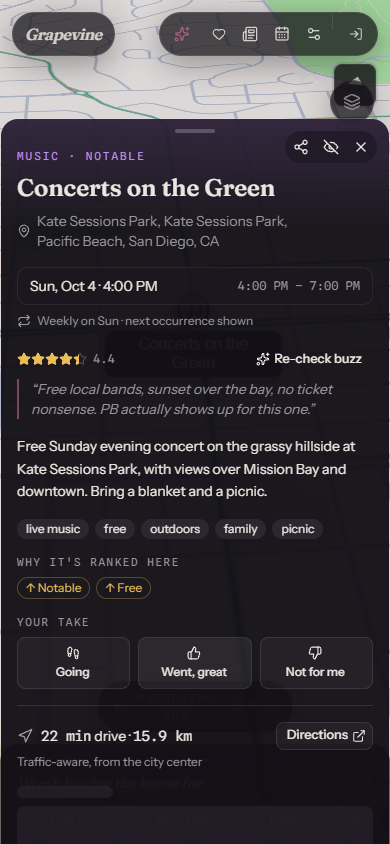
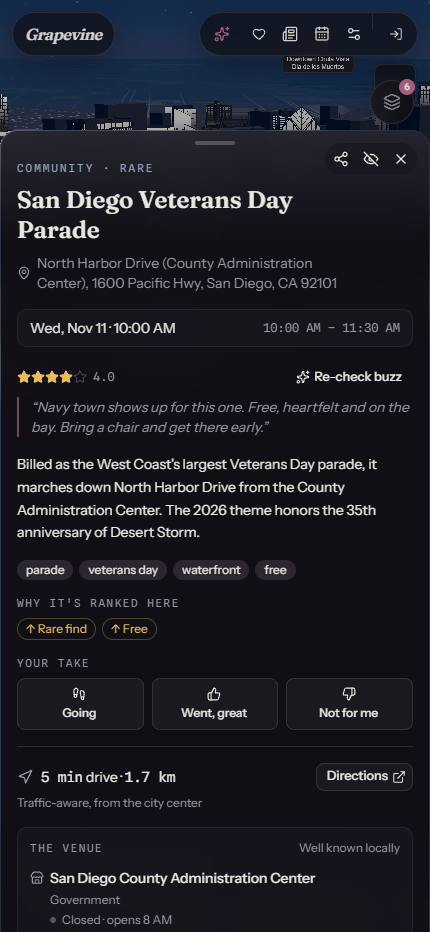
docs: showcase AI engineering and refresh waterfront screenshots

Changed region(s): [[0.0, 0.0, 1.0, 1.0], [0.8, 0.3081, 0.9231, 0.3697]]

diff --git a/README.md b/README.md
@@ -1,20 +1,69 @@
 # Grapevine
 
-**Local events worth going to, on a 3D map.**
+**Local events worth going to, on a 3D map. Built with a validated local AI agent.**
 
 [![CI](https://github.com/21sean/GrapevineOS/actions/workflows/ci.yml/badge.svg)](https://github.com/21sean/GrapevineOS/actions/workflows/ci.yml)
 [![Release](https://img.shields.io/github/v/release/21sean/GrapevineOS)](https://github.com/21sean/GrapevineOS/releases/latest)
 [![License: Apache-2.0](https://img.shields.io/badge/license-Apache--2.0-0b3b2e)](LICENSE)
 
-[Screenshots](#screenshots) · [Quick start](#quick-start) · [Diagrams](#how-it-works) · [Documentation](#documentation) · [Releases](https://github.com/21sean/GrapevineOS/releases)
+[AI/ML checklist](#aiml-engineering-checklist) · [Screenshots](#screenshots) · [Quick start](#quick-start) · [Architecture](#how-it-works) · [Documentation](#documentation)
 
 Grapevine turns local newsletters and verified web discoveries into a map of
 San Diego events. Browse by date, category, and drive time, learn what is on
 nearby, or ask the concierge to help plan your day.
 
-![Grapevine showing downtown San Diego high rises in 3D, with a concert event list](docs/images/downtown-san-diego-3d.png)
+The engineering focus is the boundary between model output and application behavior:
+local inference, strict response contracts, evidence checks, bounded tool use,
+and repeatable evaluations that run before changes merge.
 
-_Downtown San Diego, zoomed in to show the high rises. Captured from the running app with 3D buildings enabled._
+![Grapevine in dark mode, looking across the Star of India and the Embarcadero toward San Diego's 3D skyline](docs/images/downtown-san-diego-3d.png)
+
+_San Diego's waterfront in dark mode, with 3D buildings and the Star of India in view.
+Extra map labels, walking paths, transit, and traffic are off. Real application capture._
+
+**Stack:** React / TypeScript / Mapbox · Node / LangGraph · Python / Pydantic /
+Instructor · Ollama · Supabase · DeepEval / Ragas / OpenTelemetry.
+
+## AI/ML engineering checklist
+
+Each checkmark means the capability is implemented in this repository. The evidence
+column links to the code, tests, or workflow that a reviewer can inspect.
+
+| Status | Capability                                    | Implementation and evidence                                                                                                                                                                                                                                                  |
+| ------ | --------------------------------------------- | ---------------------------------------------------------------------------------------------------------------------------------------------------------------------------------------------------------------------------------------------------------------------------- |
+| ✓      | Schema-gated responses                        | Ollama generates against JSON Schema; strict Pydantic and Instructor validation precedes application use, with generated Zod checks at the Node boundary. [Contracts](llm/grapevine_llm/contracts.py) · [Gateway](server/src/llm/gateway.ts)                                 |
+| ✓      | Bounded repair and typed failures             | Three attempts and one 120-second deadline by default; invalid or exhausted output returns a typed failure without partial results. [Generation boundary](llm/grapevine_llm/client.py) · [Tests](llm/tests/)                                                                 |
+| ✓      | Business-rule and evidence validation         | Validates dates, coordinates, known event IDs, supplied citation IDs, and verification excerpts. Answers can explicitly report insufficient evidence. [Validators](llm/grapevine_llm/contracts.py)                                                                           |
+| ✓      | Agent orchestration and tool contracts        | LangGraph routes input checks, recall, model calls, tools, content checks, and finalization. Tool names and arguments are validated against the allowed set. [Graph](server/src/agent/graph.ts) · [Tool registry](server/src/agent/contracts.ts)                             |
+| ✓      | Human confirmation for proposed actions       | Calendar, watch, and interest proposals have confirmation flows; applying an interest change requires `confirmed: true`. [Action contracts](server/src/agent/contracts.ts)                                                                                                   |
+| ✓      | Retrieval-grounded answers                    | Upcoming event context and tool results supply evidence to the agent; supported answers must cite supplied IDs. [Context](server/src/agent/context.ts) · [Agent boundary](server/src/agent/graph.ts)                                                                         |
+| ✓      | Durable conversation memory                   | Thread checkpoints and bounded running summaries preserve context across turns. [Checkpointer](server/src/checkpointer.ts) · [Recall node](server/src/agent/graph.ts)                                                                                                        |
+| ✓      | Prompt and response regression evaluation     | 30 synthetic golden cases cover normal, edge, adversarial, and repair behavior; 15 also run against the pinned local model. [Dataset](llm/evals/golden.jsonl) · [Harness](llm/grapevine_llm/evals.py)                                                                        |
+| ✓      | Local LLM-as-judge evaluation                 | DeepEval scores explicit rubrics after deterministic checks; agent cases add groundedness and relevance criteria. [Quality runner](server/scripts/llm-quality.ts)                                                                                                            |
+| ✓      | Retrieval precision and recall                | Ragas ID-based metrics score versioned retrieval snapshots with explicit empty-set behavior. [Metrics](llm/grapevine_llm/retrieval_metrics.py)                                                                                                                               |
+| ✓      | Reproducible model evaluations                | Runtime and model digests, seed, dependency locks, dataset hashes, and source fingerprints accompany quality artifacts. [Model pins](llm/evals/models.json) · [Provenance](llm/grapevine_llm/provenance.py)                                                                  |
+| ✓      | CI quality and regression gates               | Requires complete cases, first-pass schema success ≥95%, required judge scores ≥0.75, and no per-case regression against the checked-in and PR-base baselines. [Gates](llm/grapevine_llm/checks.py) · [CI](.github/workflows/llm-quality.yml)                                |
+| ✓      | Prompt-injection defenses and red-team suites | Local input/content classification, an output persona filter, adversarial fixtures, and a separate red-team suite. Classifier failure behavior is documented below. [Guardrails](server/src/agent/guardrails.ts) · [Red team](server/src/evals/suites/guardrails-redteam.ts) |
+| ✓      | Local inference and offline evaluation        | Loopback-only model endpoints, network-denial guards, local datasets/judges, and disabled evaluator uploads. [Offline guide](llm/README.md#offline-operation-tracing-and-ci) · [Network tests](llm/tests/)                                                                   |
+| ✓      | Observability and feedback into evaluations   | Local OpenTelemetry traces record attempts, failures, model time, validation time, and repair time. A sampled review queue supports reviewed promotion into golden cases. [Telemetry](llm/grapevine_llm/telemetry.py) · [Maintenance](llm/grapevine_llm/maintenance.py)      |
+| ✓      | Personalized ranking                          | Event reactions update tag-affinity weights shared by the UI and server ranking surfaces. This is a deterministic scoring system. [Affinity logic](shared/affinity.ts)                                                                                                       |
+
+### What the checks establish
+
+- **Schema validity and factual correctness are separate.** Citation IDs and excerpt
+  checks constrain outputs; they do not prove every claim is true. Complete agent
+  answers validate before display, trading token-by-token rendering for a strict boundary.
+- **The evaluation set is a regression suite, not a general accuracy benchmark.**
+  Retrieval metrics use stored snapshots, not the live database retriever. The
+  starter judge uses the same model as generation; [human calibration](llm/calibration.md)
+  is documented but not yet recorded.
+- **Offline scope is inference and evaluation.** The live product still uses
+  Supabase, Mapbox, and optional web integrations. The prompt-injection classifier
+  can run in blocking, observe, or off mode and fails open if unavailable; the
+  structured-output boundary fails closed.
+
+See the [quality guide](llm/README.md) for reproducing the gates and the
+[README review](docs/readme-review.md) for the hiring-manager audit and remaining evidence gaps.
 
 ## Explore the city
 
@@ -34,15 +83,17 @@ push reminders, and tracing.
 
 ## Screenshots
 
-Real UI captures featuring community concerts. The phone layout keeps the map
-visible while you browse, then opens a scrollable sheet for an event's details.
+Desktop and phone captures use the same dark waterfront view, with 3D buildings
+enabled and optional map clutter hidden. The phone layout keeps the skyline
+visible above the event list and detail sheet.
 
 <p align="center">
-  <img src="docs/images/mobile-event-list.png" width="320" alt="Mobile event list showing free community concerts with a downtown San Diego 3D map">
-  <img src="docs/images/mobile-event-details.png" width="320" alt="Concerts on the Green event details with rating, tags, reactions, and driving directions">
+  <img src="docs/images/mobile-event-list.png" width="320" alt="Mobile Grapevine event list below San Diego's illuminated 3D waterfront skyline">
+  <img src="docs/images/mobile-event-details.png" width="320" alt="Mobile event detail sheet with the dark San Diego waterfront map above it">
 </p>
 
-_Browse community concerts, then open an event for ratings, reactions, and directions._
+_Browse events, then open the details. Capture settings and camera positions are
+recorded in the [screenshot guide](docs/screenshots.md)._
 
 ## Quick start
 
@@ -106,6 +157,13 @@ Press **Ctrl K** on Windows and Linux, or **⌘K** on macOS, to open Ask Grapevi
 
 ## How it works
 
+Newsletter or discovery text → schema-gated extraction and verification → stored
+events → map and ranking. The concierge reads event context and tool results,
+validates its next action or complete answer, and exposes proposals through the UI.
+
+<details>
+<summary>Explore the ingestion, agent, guardrail, and ranking diagrams</summary>
+
 ### From newsletters to the map
 
 Newsletters become structured events, enriched with local buzz ratings and
@@ -138,7 +196,7 @@ for you to confirm.
 ### Guardrails
 
 Input and fetched content pass through classifier checks. A separate output
-filter runs on the streamed response. The
+filter checks the validated answer before display. The
 [technical guide](docs/product-guide.md#guardrails) explains the checks and
 their failure behavior.
 
@@ -154,6 +212,8 @@ same ranking signals feed the map, event list, weekly view, and notifications.
 <p align="center">
   <img src="docs/images/interest-learning.png" width="900" alt="Interest learning feedback loop from preferences and event reactions to tag affinity, personal scores, and ranked event surfaces">
 </p>
+
+</details>
 
 See the [product guide](docs/product-guide.md) and
 [agent architecture](docs/agent-architecture.md) for the complete walkthrough.
@@ -189,14 +249,16 @@ CI also requires schema/version checks, 30 deterministic golden cases, and
 [structured inference guide](llm/README.md) for adding schemas, eval cases,
 and reviewed baselines. Existing offline and red-team suites remain available.
 
-| Directory               | Purpose                                                          |
-| ----------------------- | ---------------------------------------------------------------- |
-| `web/`                  | React UI, Mapbox rendering, filters, event details, and chat     |
-| `server/`               | Express API, LangGraph agent, integrations, MCP, and evaluations |
-| `shared/`               | Domain types, recurrence, ranking signals, and time calculations |
-| `workers/email-ingest/` | Cloudflare newsletter intake and delivery recovery               |
-| `supabase/`             | Database migrations                                              |
-| `docs/`                 | Setup, architecture, product guide, and UI screenshots           |
+| Directory               | Purpose                                                                    |
+| ----------------------- | -------------------------------------------------------------------------- |
+| `web/`                  | React UI, Mapbox rendering, filters, event details, and chat               |
+| `server/`               | Express API, LangGraph agent, integrations, MCP, and evaluations           |
+| `shared/`               | Domain types, recurrence, ranking signals, and time calculations           |
+| `llm/`                  | Python contracts, local inference, golden cases, judges, and quality gates |
+| `contracts/llm/`        | Immutable versioned JSON Schemas for cross-language validation             |
+| `workers/email-ingest/` | Cloudflare newsletter intake and delivery recovery                         |
+| `supabase/`             | Database migrations                                                        |
+| `docs/`                 | Setup, architecture, product guide, and UI screenshots                     |
 
 Licensed under [Apache-2.0](LICENSE). See the
 [third-party notices](docs/THIRD_PARTY_NOTICES.md) and

diff --git a/docs/readme-review.md b/docs/readme-review.md
@@ -1,0 +1,34 @@
+# README hiring-manager review
+
+Reviewed against the v0.7.0 implementation on 2026-10-28. This is an editorial
+and source-evidence audit, not an independent model benchmark or security audit.
+
+The README should let a reviewer understand the product, identify the engineering
+work, and inspect the evidence without reading the entire repository first.
+
+| Review question                                 | Finding in the previous README                                                                                   | Resolution                                                                                                                                                                 |
+| ----------------------------------------------- | ---------------------------------------------------------------------------------------------------------------- | -------------------------------------------------------------------------------------------------------------------------------------------------------------------------- |
+| What does the application do?                   | The local-event map was clear; the AI engineering focus was buried.                                              | Added a short explanation of the model-to-application boundary and the stack near the top.                                                                                 |
+| Does the first screenshot look intentional?     | A busy city view competed with labels and overlays; the phone images showed a different scene.                   | Replaced all three UI captures with dark waterfront views, 3D buildings on, optional basemap labels/traffic off, and the Star of India visible in the desktop composition. |
+| Can I verify the AI/ML claims?                  | The README mentioned validation and evals without a scannable inventory.                                         | Added a capability checklist with direct source, test, dataset, and workflow links.                                                                                        |
+| Is this more than a model API wrapper?          | Orchestration, contract enforcement, persistence, and regression gates required digging through separate guides. | Surfaced these capabilities and their implementation evidence together.                                                                                                    |
+| Are evaluation numbers defensible?              | Case counts were listed without much context about what they measured.                                           | Identified the 30-case synthetic replay suite and 15 live cases as regression coverage, with snapshot retrieval and shared-model judging limits.                           |
+| Are important tradeoffs explained?              | The guardrail paragraph still referred to a streamed response.                                                   | Explained whole-answer validation before display, classifier fail-open behavior, and the separate fail-closed contract boundary.                                           |
+| Can I reproduce the work?                       | Setup and operations were already present.                                                                       | Preserved setup commands, linked the quality guide, and documented screenshot framing/settings.                                                                            |
+| Can I scan it quickly?                          | Five large diagrams expanded before the final documentation and development sections.                            | Kept the diagrams in an expandable architecture section and moved the AI/ML checklist above setup.                                                                         |
+| Does it claim results that were never measured? | The README did not provide adoption or business-impact evidence.                                                 | Added no invented adoption, latency, accuracy, or business-impact claims.                                                                                                  |
+
+## Evidence still worth collecting
+
+These are follow-up opportunities, not completed checklist items:
+
+| Status  | Evidence gap                                  | What would close it                                                                                                                       |
+| ------- | --------------------------------------------- | ----------------------------------------------------------------------------------------------------------------------------------------- |
+| Pending | Human calibration of the local judge          | Completed blind human reviews in [the calibration record](../llm/calibration.md), with disagreements and follow-up cases.                 |
+| Pending | Live retrieval quality                        | A labeled event-query dataset run through the actual retriever, with precision/recall and failure analysis separate from snapshot scores. |
+| Pending | Independent answer-quality evidence           | A larger held-out set with human labels or an independently calibrated judge, reported with sample size and uncertainty.                  |
+| Pending | Representative performance and product impact | Reproducible latency/throughput measurements with hardware and workload, plus verified usage or user-outcome data if available.           |
+
+The strongest interview discussion is how strict contracts, evidence validation,
+tool permissions, and evaluation gates work together, including where each can
+still fail. A valid schema is one guarantee; it is not a claim of universal accuracy.

diff --git a/docs/screenshots.md b/docs/screenshots.md
@@ -1,0 +1,56 @@
+# README screenshot settings
+
+Captured from the running v0.7.0 application on 2026-10-28 using the live event
+catalog. These are browser screenshots, with no compositing or image retouching.
+Events, counts, and Mapbox geometry can change between captures.
+
+## Scene
+
+Look southeast from San Diego Bay toward the Embarcadero and downtown skyline.
+The desktop composition includes the Star of India at the Maritime Museum,
+near longitude -117.17353, latitude 32.72042
+([landmark location](https://www.californiahistoricallandmarks.com/landmarks/chl-1030)).
+
+In **Map layers**, use these settings:
+
+| Setting            | Value |
+| ------------------ | ----- |
+| Lighting           | Dark  |
+| 3D buildings       | On    |
+| Points of interest | Off   |
+| Place names        | Off   |
+| Street names       | Off   |
+| Transit            | Off   |
+| Walking paths      | Off   |
+| Live traffic       | Off   |
+
+Pause and minimize the happening-now tour. Keep the filter disclosure closed and
+the search field empty. The captured event list uses a minimum buzz rating of 4.0
+and hides promoted events; date, category, live-only, rare-only, free-only, and
+distance restrictions are unset. These are capture-session preferences, not
+changes to application defaults.
+
+## Framing
+
+Camera centers are `[longitude, latitude]`; bearing and pitch are degrees.
+Padding is in CSS pixels. The camera was positioned on the existing Mapbox
+instance in the browser; application source and event data were not edited for
+the screenshots.
+
+| Asset                       | Viewport    | Center                  | Zoom  | Pitch | Bearing | Padding (top / right / bottom / left) |
+| --------------------------- | ----------- | ----------------------- | ----- | ----- | ------- | ------------------------------------- |
+| `downtown-san-diego-3d.png` | 1600 × 1000 | `[-117.1727, 32.72045]` | 17.15 | 75    | 132     | `40 / 0 / 0 / 310`                    |
+| `mobile-event-list.png`     | 430 × 932   | `[-117.1727, 32.72045]` | 16.3  | 78    | 132     | `80 / 0 / 360 / 0`                    |
+| `mobile-event-details.png`  | 430 × 932   | `[-117.1727, 32.72045]` | 16.3  | 78    | 132     | `80 / 0 / 360 / 0`                    |
+
+For the phone list, raise the bottom sheet to its half-open position. For the
+detail capture, open **San Diego Veterans Day Parade** and restore the camera
+after the selection fly-to. The detail sheet naturally covers most of the map.
+Use a comparable public waterfront event if that event is no longer available.
+
+Before saving, wait for map tiles, 3D geometry, sheet animations, and venue/ETA
+requests to finish. Inspect each image at full size for clipped text, empty
+states, loading indicators, and private account information. Keep the scene and
+settings consistent across desktop and phone.
+
+Map rendering: © Mapbox · © OpenStreetMap contributors.
